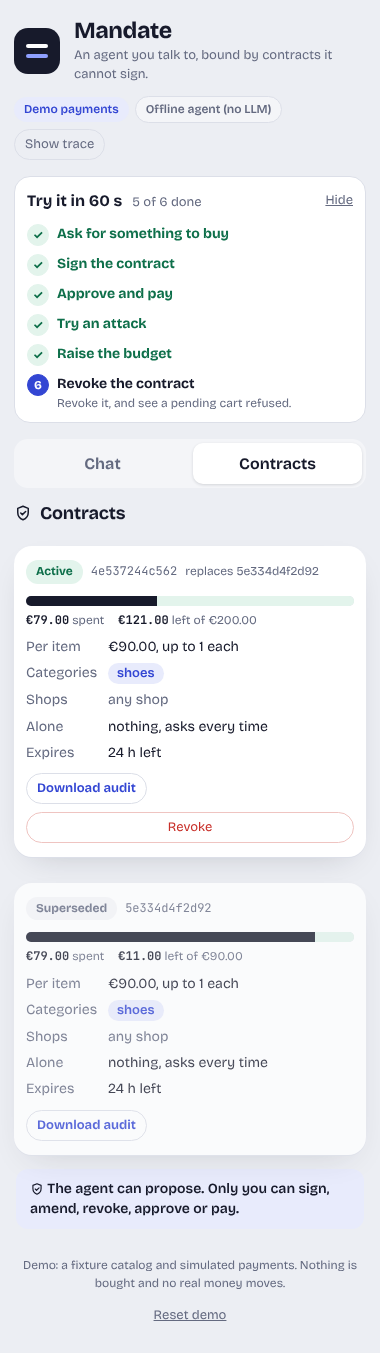
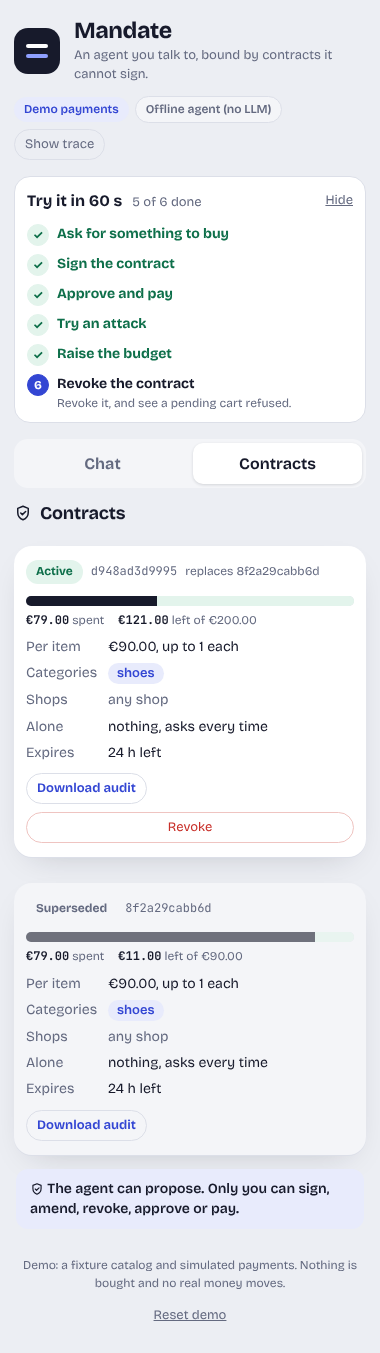
UI audit: past contracts keep AA text contrast; audit report and a contrast guard test (#51)
* ui: past contracts keep AA text contrast; UI audit report and a contrast guard test

Agent: ejecuta las tareas

Claude-Session: https://claude.ai/code/session_018jb2RDnJNg1tBGp2p84Z5E

* docs: test count 409 in 36 files

Agent: ejecuta las tareas

Claude-Session: https://claude.ai/code/session_018jb2RDnJNg1tBGp2p84Z5E

---------

diff --git a/test/ui-contrast.test.ts b/test/ui-contrast.test.ts
@@ -1,0 +1,44 @@
+import { readFileSync } from "node:fs";
+import { describe, expect, it } from "vitest";
+
+const css = (f: string) => readFileSync(new URL(`../web/src/${f}`, import.meta.url), "utf8");
+const styles = css("styles.css");
+/** A token's colour as #rrggbb (the file also writes #fff). */
+const token = (name: string) => {
+  const hex = new RegExp(`--${name}:\\s*#([0-9a-fA-F]{3}|[0-9a-fA-F]{6})\\b`).exec(styles)?.[1];
+  if (!hex) throw new Error(`token --${name} not found`);
+  return `#${hex.length === 3 ? [...hex].map((c) => c + c).join("") : hex}`;
+};
+
+/** WCAG 2.x relative luminance and contrast ratio. */
+const lum = (hex: string) => {
+  const c = [1, 3, 5].map((i) => parseInt(hex.slice(i, i + 2), 16) / 255).map((v) => (v <= 0.03928 ? v / 12.92 : ((v + 0.055) / 1.055) ** 2.4));
+  return 0.2126 * c[0] + 0.7152 * c[1] + 0.0722 * c[2];
+};
+const ratio = (a: string, b: string) => { const [x, y] = [lum(a), lum(b)].sort((p, q) => q - p); return (x + 0.05) / (y + 0.05); };
+
+describe("UI contrast (WCAG AA 1.4.3): every text colour the design uses, on the surfaces it is used on", () => {
+  // [text token, surface token, where it is used]
+  const pairs: [string, string, string][] = [
+    ["ink", "card", "body text on a card"], ["ink", "paper", "body text on a quiet surface"], ["ink", "bg", "text on the page"],
+    ["muted", "card", "secondary text on a card"], ["muted", "paper", "secondary text on a quiet surface (past contracts, chips)"], ["muted", "bg", "secondary text on the page"],
+    ["brand", "brand-soft", "badge"], ["brand", "card", "link"], ["brand-ink", "brand", "primary button"],
+    ["good", "good-soft", "approved, paid, active"], ["warn", "warn-soft", "limit card, draft"], ["bad", "bad-soft", "blocked, revoked"],
+  ];
+  for (const [fg, bg, where] of pairs) {
+    it(`${fg} on ${bg} (${where}) is at least 4.5:1`, () => {
+      expect(ratio(token(fg), token(bg))).toBeGreaterThanOrEqual(4.5);
+    });
+  }
+
+  it("a past contract (revoked, superseded, expired) is not dimmed with opacity on the whole card: that dropped its text to 3.2-4.4:1", () => {
+    const agent = css("agent.css");
+    const rules = [...agent.matchAll(/([^{}]*\.contract\.(?:revoked|superseded|expired)[^{}]*)\{([^}]*)\}/g)];
+    expect(rules.length).toBeGreaterThan(0);
+    for (const [, selector, body] of rules) {
+      // only the meter (a graphic, not text) may be dimmed
+      if (/\.meter\b/.test(selector)) continue;
+      expect(body, selector).not.toMatch(/\bopacity\s*:/);
+    }
+  });
+});

diff --git a/web/src/agent.css b/web/src/agent.css
@@ -49,7 +49,9 @@
 .statuschip.revoked { background: var(--bad-soft); color: var(--bad); }
 .statuschip.superseded, .statuschip.expired { background: var(--paper); color: var(--muted); }
 .statuschip.draft { background: var(--warn-soft); color: var(--warn); }
-.contract.revoked, .contract.superseded, .contract.expired { opacity: .78; }
+.contract.revoked, .contract.superseded, .contract.expired { background: var(--paper); }
+/* A past contract is quieter by its background and a dimmed meter (a graphic), not by opacity on the whole card: opacity dropped its text below WCAG AA contrast (3.2 to 4.4). */
+.contract.revoked .meter, .contract.superseded .meter, .contract.expired .meter { opacity: .6; }
 .meterbox { margin: 12px 0 8px; }
 .meter { display: flex; height: 10px; border-radius: 99px; overflow: hidden; background: var(--line); }
 .meter i { display: block; height: 100%; }

diff --git a/docs/UI-AUDIT.md b/docs/UI-AUDIT.md
@@ -1,0 +1,43 @@
+# UI audit (2026-11-21)
+
+An accessibility and polish audit of the web UI (chat plus contracts panel) after the public-demo changes (header badge, limit card, "Try it in 60 s" tour). Design polish only: no behaviour, wiring or guardrail changed.
+
+**How it was done.** The Hallmark design skill was asked for but could not be installed in the environment that ran this audit (the install was refused by the permission system, so none of its scripts were used and no claim here comes from it). The audit was done by hand against WCAG 2.2 AA:
+
+| Check | How | Result |
+| --- | --- | --- |
+| Automated WCAG scan | axe-core 4.10.2, tags `wcag2a`, `wcag2aa`, `wcag21a`, `wcag21aa`, `wcag22aa`, `best-practice`, run on 10 states at 1280 px and 380 px: empty chat, draft card, draft form, active contract, proposal, paid receipt, blocked attack, amendment, limit card, contracts with a revoked and a superseded contract, trace panel open (animations settled before each scan) | 1 finding family, fixed below |
+| Keyboard | Tab through the first 40 stops at both widths, checking that every focused element shows an outline or ring | 0 without a visible focus |
+| Target size (WCAG 2.2, 2.5.8) | Measured every visible control; probed the hit area of the two small text buttons with `elementFromPoint` | 2 controls under 24 px, kept (below) |
+| Reduced motion | The existing `npm run screenshots` run with `prefers-reduced-motion: reduce`: no running animation at any step, including the new tour, status line and limit card | Pass |
+| Overflow | The same run at 380 px: no horizontal overflow at any step | Pass |
+| Text contrast of the design tokens | `test/ui-contrast.test.ts` computes the WCAG ratio for every text and surface token pair the design uses | All 12 pairs at 4.5:1 or more |
+
+## Findings
+
+### Fixed
+
+**1. Past contracts failed text contrast (WCAG 1.4.3, serious).** A contract that is revoked, superseded or expired was dimmed with `opacity: .78` on the whole card, which pulled its text to 3.2 to 4.4:1 (the hash, the spend legend, the term labels, the chips and the "Download audit" link): 36 axe nodes. The card is now quieter by its background (`--paper`) and a dimmed meter (a graphic, not text), with no opacity on text. After the change axe reports 0 violations on all 10 states at both widths. `test/ui-contrast.test.ts` fails if opacity comes back on those cards.
+
+### Kept on purpose (nothing here blocks)
+
+| Finding | Why it stays |
+| --- | --- |
+| "Hide" (28x19 px) and "Reset demo" (73x19 px) are text buttons under 24 px | Their hit area is extended by a pseudo-element: a click 8 px above, below, left or right still lands on the button, so the effective target is well over 24 px. Making them bigger would change the layout |
+| Literal colours (about 56 hex values, mostly white and shadows) outside the `:root` tokens in the stylesheets | Maintainability only, no user-visible effect; moving them is a wide edit with a visual-regression risk. A follow-up if the palette changes |
+| A middle dot joins some meta strings (hash, status, amount; the "stopped by" list) | It reads clearly in this product UI and is not decoration; changing it would be a copy edit |
+| The disabled "Send" button is low-contrast grey | Disabled controls are exempt from the contrast rule, and the grey is the standard signal that it is not available yet |
+| Visual identity (tokens, type, cards, badges) | Unchanged: nothing in the audit forced a change |
+
+## Before and after
+
+The only visible change is the look of past contracts in the Contracts panel. Screenshots (the files under `docs/screenshots/`, regenerated by `npm run screenshots`): `desktop-8-after-amendment.png`, `desktop-9-revoked.png`, `desktop-10-refused.png`, `desktop-11-limit.png`, `mobile-8-after-amendment.png`, `mobile-9-revoked.png`. In the pull request, the "before" versions are the same paths on `main` before the merge.
+
+## Reproduce
+
+```bash
+npm run build && npm run screenshots      # keyless demo flow, reduced motion, 380 px overflow, no console errors
+npx vitest run test/ui-contrast.test.ts   # token contrast and the past-contract rule
+```
+
+The axe-core scan is not part of the repository (it would add a dependency); to repeat it, load `axe-core` into a Playwright page at each state above and run `axe.run` with the tags listed.

diff --git a/README.md b/README.md
@@ -28,7 +28,7 @@ npm run eval:mutants            # switch each of the 11 guardrails off in turn: 
 
 **Use your own model key:** copy `.env.example` to `.env`, set the key of the provider you use (`GOOGLE_GENERATIVE_AI_API_KEY`, `OPENAI_API_KEY`, `ANTHROPIC_API_KEY` or `GROQ_API_KEY`, the last has a free tier) and run `npm run doctor` to see what will answer. The provider is detected from the key; nothing else is required. Keys stay on the server (a public page never asks for one). Full reference: [docs/CONFIGURATION.md](docs/CONFIGURATION.md).
 
-**How it is checked:** `npm test` (396 tests, mocks only), `npm run eval` (spend safety 57/57 with an oracle that never calls the guardrail code) and `npm run eval:mutants` (11 of 11 guardrails caught when disabled, see [docs/MUTATION.md](docs/MUTATION.md)). `npm run eval:injection-variants` (78 obfuscated injections: the regex detector flags 19, money outside the mandate 0/78, see [docs/EVIDENCE.md](docs/EVIDENCE.md)). None of these call a real LLM; that is the opt-in `npm run eval:real`. Open questions: [docs/wayfinder/MAP.md](docs/wayfinder/MAP.md).
+**How it is checked:** `npm test` (409 tests, mocks only), `npm run eval` (spend safety 57/57 with an oracle that never calls the guardrail code) and `npm run eval:mutants` (11 of 11 guardrails caught when disabled, see [docs/MUTATION.md](docs/MUTATION.md)). `npm run eval:injection-variants` (78 obfuscated injections: the regex detector flags 19, money outside the mandate 0/78, see [docs/EVIDENCE.md](docs/EVIDENCE.md)). None of these call a real LLM; that is the opt-in `npm run eval:real`. Open questions: [docs/wayfinder/MAP.md](docs/wayfinder/MAP.md).
 
 ![Chat on the left, contracts on the right: the agent drafted a contract, the person signed it and a purchase is paid](docs/screenshots/desktop-5-paid.png)
 

diff --git a/docs/EVIDENCE.md b/docs/EVIDENCE.md
@@ -6,7 +6,7 @@ What Mandate shows, how to reproduce each figure, and what it does not show. Val
 
 | Figure | Value | Reproduce |
 | --- | --- | --- |
-| Tests (mocks only) | 396 in 35 files | `npm test` |
+| Tests (mocks only) | 409 in 36 files | `npm test` |
 | Scenarios, split guardrail / injection / task / agent | 57 (28 / 7 / 12 / 10) | `npm run eval` |
 | Spend safety (no capture outside the mandate, judged by an oracle that never calls guardrail code) | 57/57 | `npm run eval` |
 | Guardrails caught when switched off, one at a time | 11/11 mutants | `npm run eval:mutants` |
